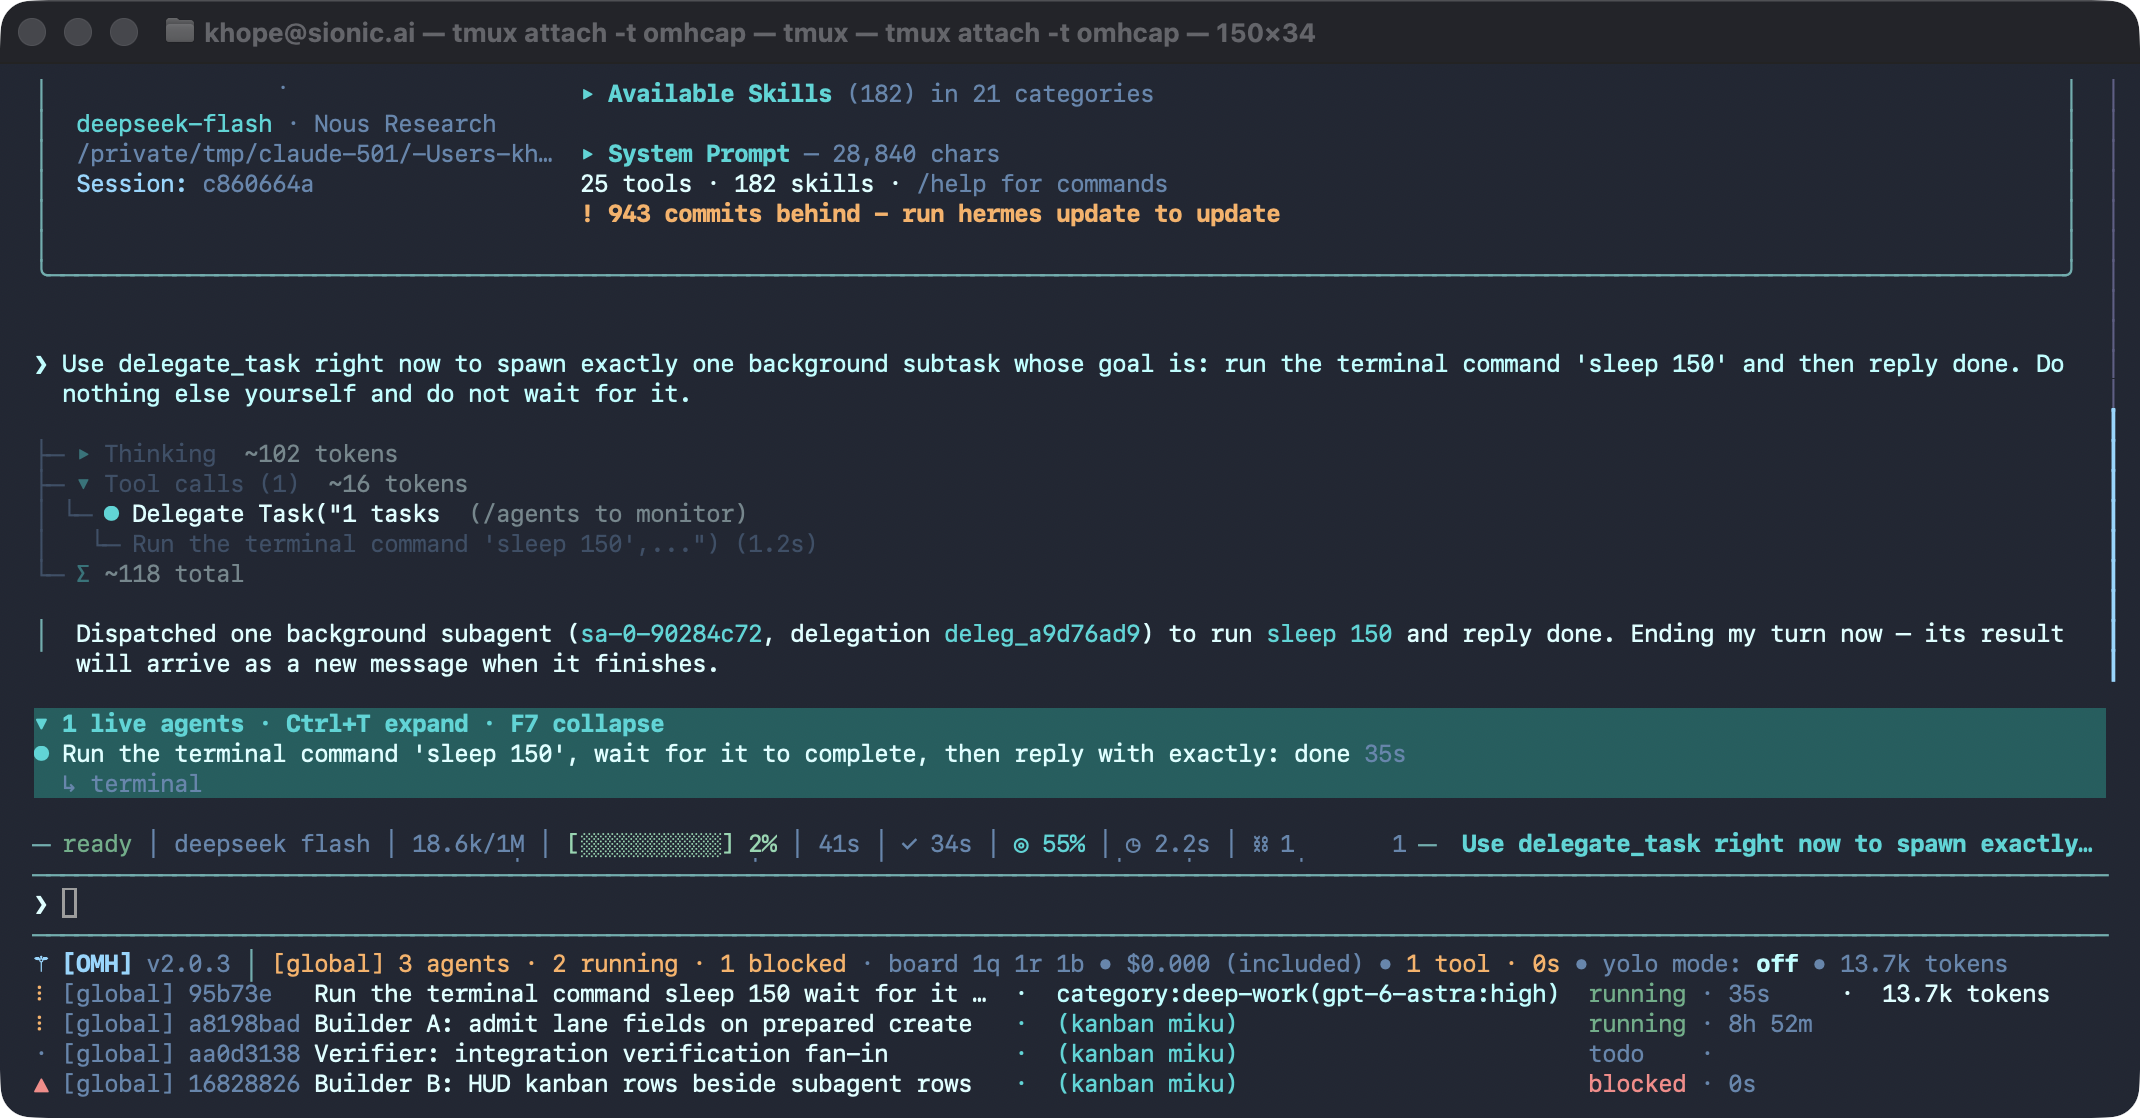
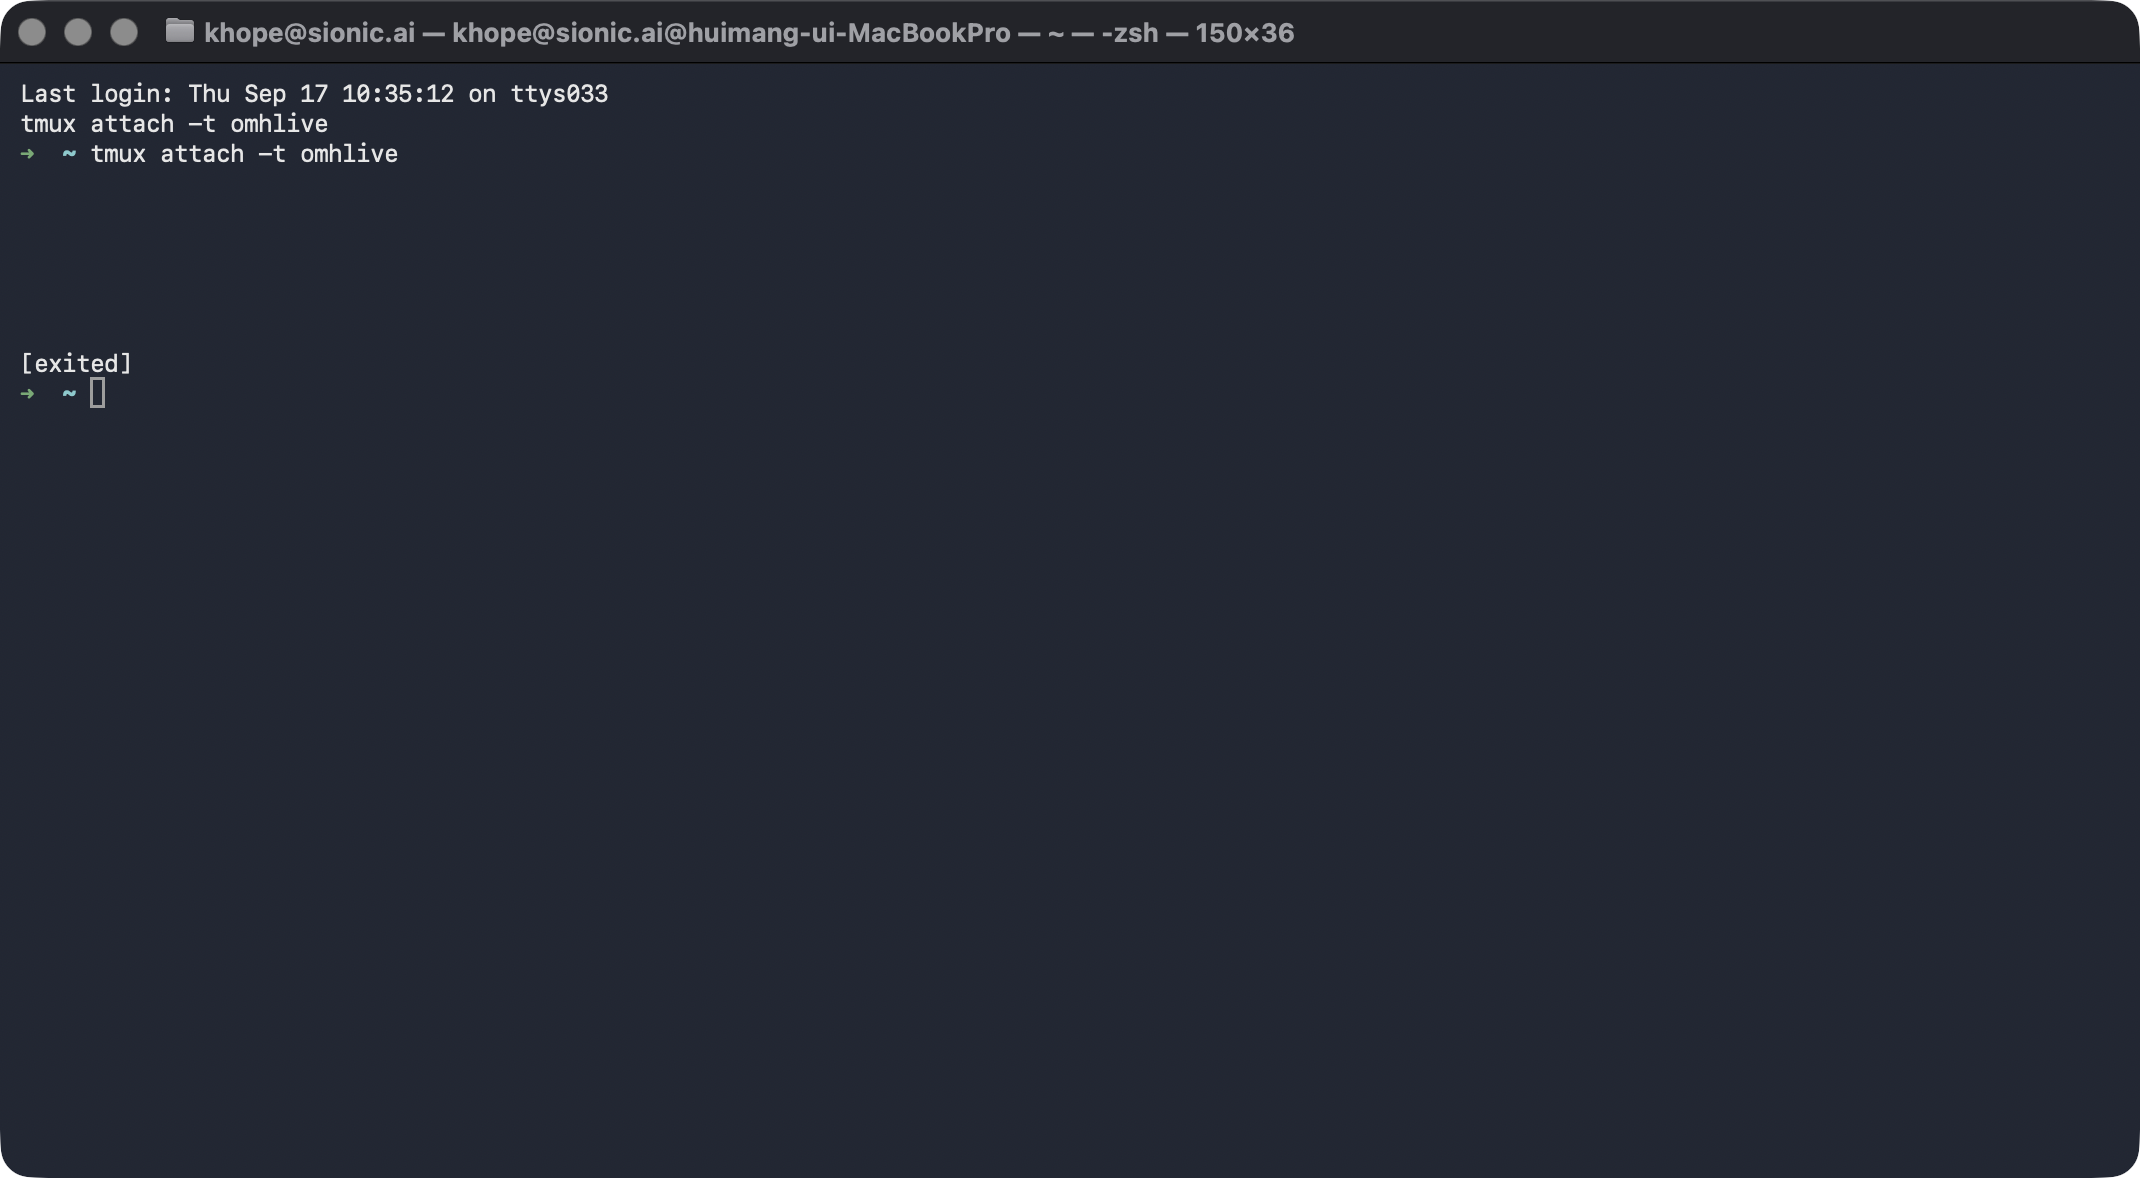
feat(hud): render a board lane in the native lane's shape and one accent tone
The kanban identity read `(kanban miku gpt-5.6-sol)` while the row above
it read `category:deep-work(gpt-6-astra:high)`: two shapes in one column.
The owner asked for the board row to look like the subagent row it sits
beside, and for the whole row to read as a different kind of line.

The identity is now `kanban/<assignee>(<model>:<effort>)`, the native lane's
own `name(model:effort)` shape with `kanban/` where the native row says
`category:`, so both kinds of row align in the identity column and the model
pin and effort read the same way on either. Every non-semantic piece of a
board row -- marker, scope and id, title, identity, elapsed -- renders in the
theme's accent tone (the skin's own identity colour; turquoise on the default
skin), with the secondary pieces dimmed, so a kanban row is one turquoise
line beside the native rows. `blocked` keeps error and `stale` keeps warn: a
stuck lane must never hide inside the lane colour. Still theme tokens only;
no literal colour enters the widget. The two captures are retaken with the
new shape.

Constraint: one identity shape per column; semantic verdicts keep their
  colour even inside an accent-toned row.
Rejected: a fixed teal literal | the widget renders only theme tokens, and
  `accent` follows whichever skin the operator chose.
Confidence: high
Scope-risk: low
Directive: a new row kind mirrors the native row's shape before it invents
  its own.
Tested: test_kanban_board_reader, test_tui_widget_pack, test_hud*,
[…]

diff --git a/tests/test_tui_widget_pack.py b/tests/test_tui_widget_pack.py
@@ -354,25 +354,31 @@ class TuiWidgetPackTests(unittest.TestCase):
     def test_kanban_lane_rows_render_an_accent_colored_board_identity(self) -> None:
         # A Hermes Kanban task (reader: kanban_board_reader) is board work a
         # dispatcher runs as a detached worker, not a delegate_task child.
-        # Its identity names the assignee profile and the per-task model
-        # override, `(kanban miku gpt-5.6-sol)`, in the theme's accent tone --
-        # the one token the widget had no other use for -- so the board lane
-        # is told apart from the native (label) and Maestro (warn) lanes by
-        # colour alone, still never a literal.
+        # Its identity names the assignee profile in the native lane's own
+        # shape -- `category:name(model:effort)` becomes
+        # `kanban/miku(gpt-5.6-sol:high)` -- and the whole row (marker, scope
+        # and id, title, identity, elapsed) renders in the theme's accent
+        # tone, the one token the widget had no other use for, so a board
+        # lane reads as one turquoise line beside the native rows. Only
+        # `blocked` and `stale` keep their semantic colours. Still never a
+        # literal.
         widget = resources.files("omh.tui_widgets").joinpath("omh-status.mjs").read_text(encoding="utf-8")
 
         self.assertIn("if (safeText(row.lane_backend) === 'kanban') {", widget)
-        self.assertIn("return metricSegment('kanban', `(kanban ${assignee}${modelName ? ` ${modelName}` : ''})`)", widget)
+        self.assertIn("return metricSegment('kanban', `kanban/${assignee}${detail ? `(${detail})` : ''}`)", widget)
         self.assertIn("layout.routeKind === 'kanban'", widget)
-        self.assertEqual(widget.count("t.color.accent"), 1)
+        self.assertIn("const board = safeText(row.lane_backend) === 'kanban'", widget)
+        self.assertEqual(widget.count("t.color.accent"), 6)
         # Board verdicts the reader projects: a queued task has no worker and
-        # must not spin (a muted static dot), a stale one has a worker that
-        # stopped heartbeating (a warn bang). The tail keeps the board's own
-        # status word (`ready`, `review`, `archived`) rather than the verdict.
+        # must not spin (a static dot), a stale one has a worker that stopped
+        # heartbeating (a warn bang). The tail keeps the board's own status
+        # word (`ready`, `review`, `archived`) rather than the verdict, and
+        # only blocked/stale override the board row's accent tone.
         self.assertIn("const queued = row.state === 'queued'", widget)
         self.assertIn("const stale = row.state === 'stale'", widget)
         self.assertIn("queued ? '·' : stale ? '!'", widget)
-        self.assertIn("queued ? t.color.muted : stale ? t.color.warn : t.color.ok", widget)
+        self.assertIn("blocked ? t.color.error : stale ? t.color.warn : board ? t.color.accent : queued ? t.color.muted : t.color.ok", widget)
+        self.assertIn("board ? { color: t.color.accent, dimColor: true } : { color: t.color.muted }", widget)
         self.assertIn("? safeText(row.native_status) || safeText(row.state) || 'running'", widget)
         self.assertIn("scheduled: 'sched', archived: 'arch', review: 'rev'", widget)
         # The header keeps its count line and appends the board tally only
@@ -692,7 +698,7 @@ class TuiWidgetPackTests(unittest.TestCase):
         # plain quantity -- reads in `statusFg`, the tone the host status line
         # spends on its own token gauge ('tokens는 약간 회색'). A theme token
         # either way; no literal colour enters this widget.
-        self.assertIn("h(Text, { color: t.color.muted }, layout.tailRest)", widget)
+        self.assertIn("h(Text, board ? { color: t.color.accent, dimColor: true } : { color: t.color.muted }, layout.tailRest)", widget)
         self.assertIn("h(Text, { color: t.color.statusFg }, layout.tailTokens)", widget)
         self.assertIn("const tailTokens = tokensColumn ? tokensPiece : ''", widget)
         # Rate reads beside the token count it is derived from ('tokens,

diff --git a/tests/test_kanban_board_reader.py b/tests/test_kanban_board_reader.py
@@ -378,7 +378,7 @@ class KanbanHudMergeTests(unittest.TestCase):
     def test_widget_renders_the_kanban_identity_and_lane_markers(self) -> None:
         build_board(self.hermes / "kanban.db", [
             task("t_running1", "running", title="Ship the board lane", started_at=NOW - 280, worker_pid=7,
-                 last_heartbeat_at=NOW - 1, model_override="gpt-5.6-sol"),
+                 last_heartbeat_at=NOW - 1, model_override="gpt-5.6-sol", reasoning_effort="high"),
             task("t_queued01", "ready", title="Write the release notes", created_at=NOW - 30),
             task("t_stale001", "running", title="Stalled worker", started_at=NOW - 3000, worker_pid=8,
                  last_heartbeat_at=NOW - 20 * 60),
@@ -417,11 +417,12 @@ console.log(JSON.stringify({dock, idle, lines: dockLines, colors}));
         self.assertEqual(len(lines), 4)
         self.assertIn("category:architect(claude-fable-5-1:xhigh)", lines[0])
         running = next(line for line in lines if "Ship the board lane" in line)
-        self.assertIn("(kanban miku gpt-5.6-sol)", running)
+        self.assertIn("kanban/miku(gpt-5.6-sol:high)", running)
         self.assertIn("running · 4m 40s", running)
         stale = next(line for line in lines if "Stalled worker" in line)
         self.assertTrue(stale.startswith("! "), stale)
-        self.assertIn("(kanban miku)", stale)
+        self.assertIn("kanban/miku", stale)
+        self.assertNotIn("kanban/miku(", stale, "no model pin, no parenthesis")
         self.assertIn("running ·", stale, "the tail keeps the native status word")
         queued = next(line for line in lines if "Write the release notes" in line)
         self.assertTrue(queued.startswith("· "), queued)
@@ -429,10 +430,16 @@ console.log(JSON.stringify({dock, idle, lines: dockLines, colors}));
         def color_of(fragment: str) -> str:
             return next(color for color, text in views["colors"] if fragment in text)
 
-        self.assertEqual(color_of("(kanban miku gpt-5.6-sol)"), "ACCENT")
-        self.assertEqual(color_of("(kanban miku)"), "ACCENT")
+        self.assertEqual(color_of("kanban/miku(gpt-5.6-sol:high)"), "ACCENT")
+        self.assertEqual(color_of("kanban/miku"), "ACCENT")
+        # The whole board row is accent: title and the dimmed scope/id and
+        # elapsed pieces; a native row keeps text/muted.
+        self.assertEqual(color_of("Ship the board lane"), "ACCENT")
+        self.assertEqual(color_of("Review the router change"), "TEXT")
+        self.assertEqual(color_of("· 4m 40s"), "ACCENT", "the board row's elapsed piece is accent (dimmed)")
+        self.assertEqual(color_of("· 42s"), "MUTED", "a native row's elapsed piece stays muted")
         self.assertEqual(color_of("category:architect(claude-fable-5-1:xhigh)"), "LABEL")
-        self.assertEqual(next(color for color, text in views["colors"] if text == "· "), "MUTED")
+        self.assertEqual(next(color for color, text in views["colors"] if text == "· "), "ACCENT")
         self.assertEqual(next(color for color, text in views["colors"] if text == "! "), "WARN")
         self.assertEqual(color_of("· dispatcher not observed"), "WARN")
         self.assertEqual(color_of("· board 1q 2r 0b"), "MUTED")
